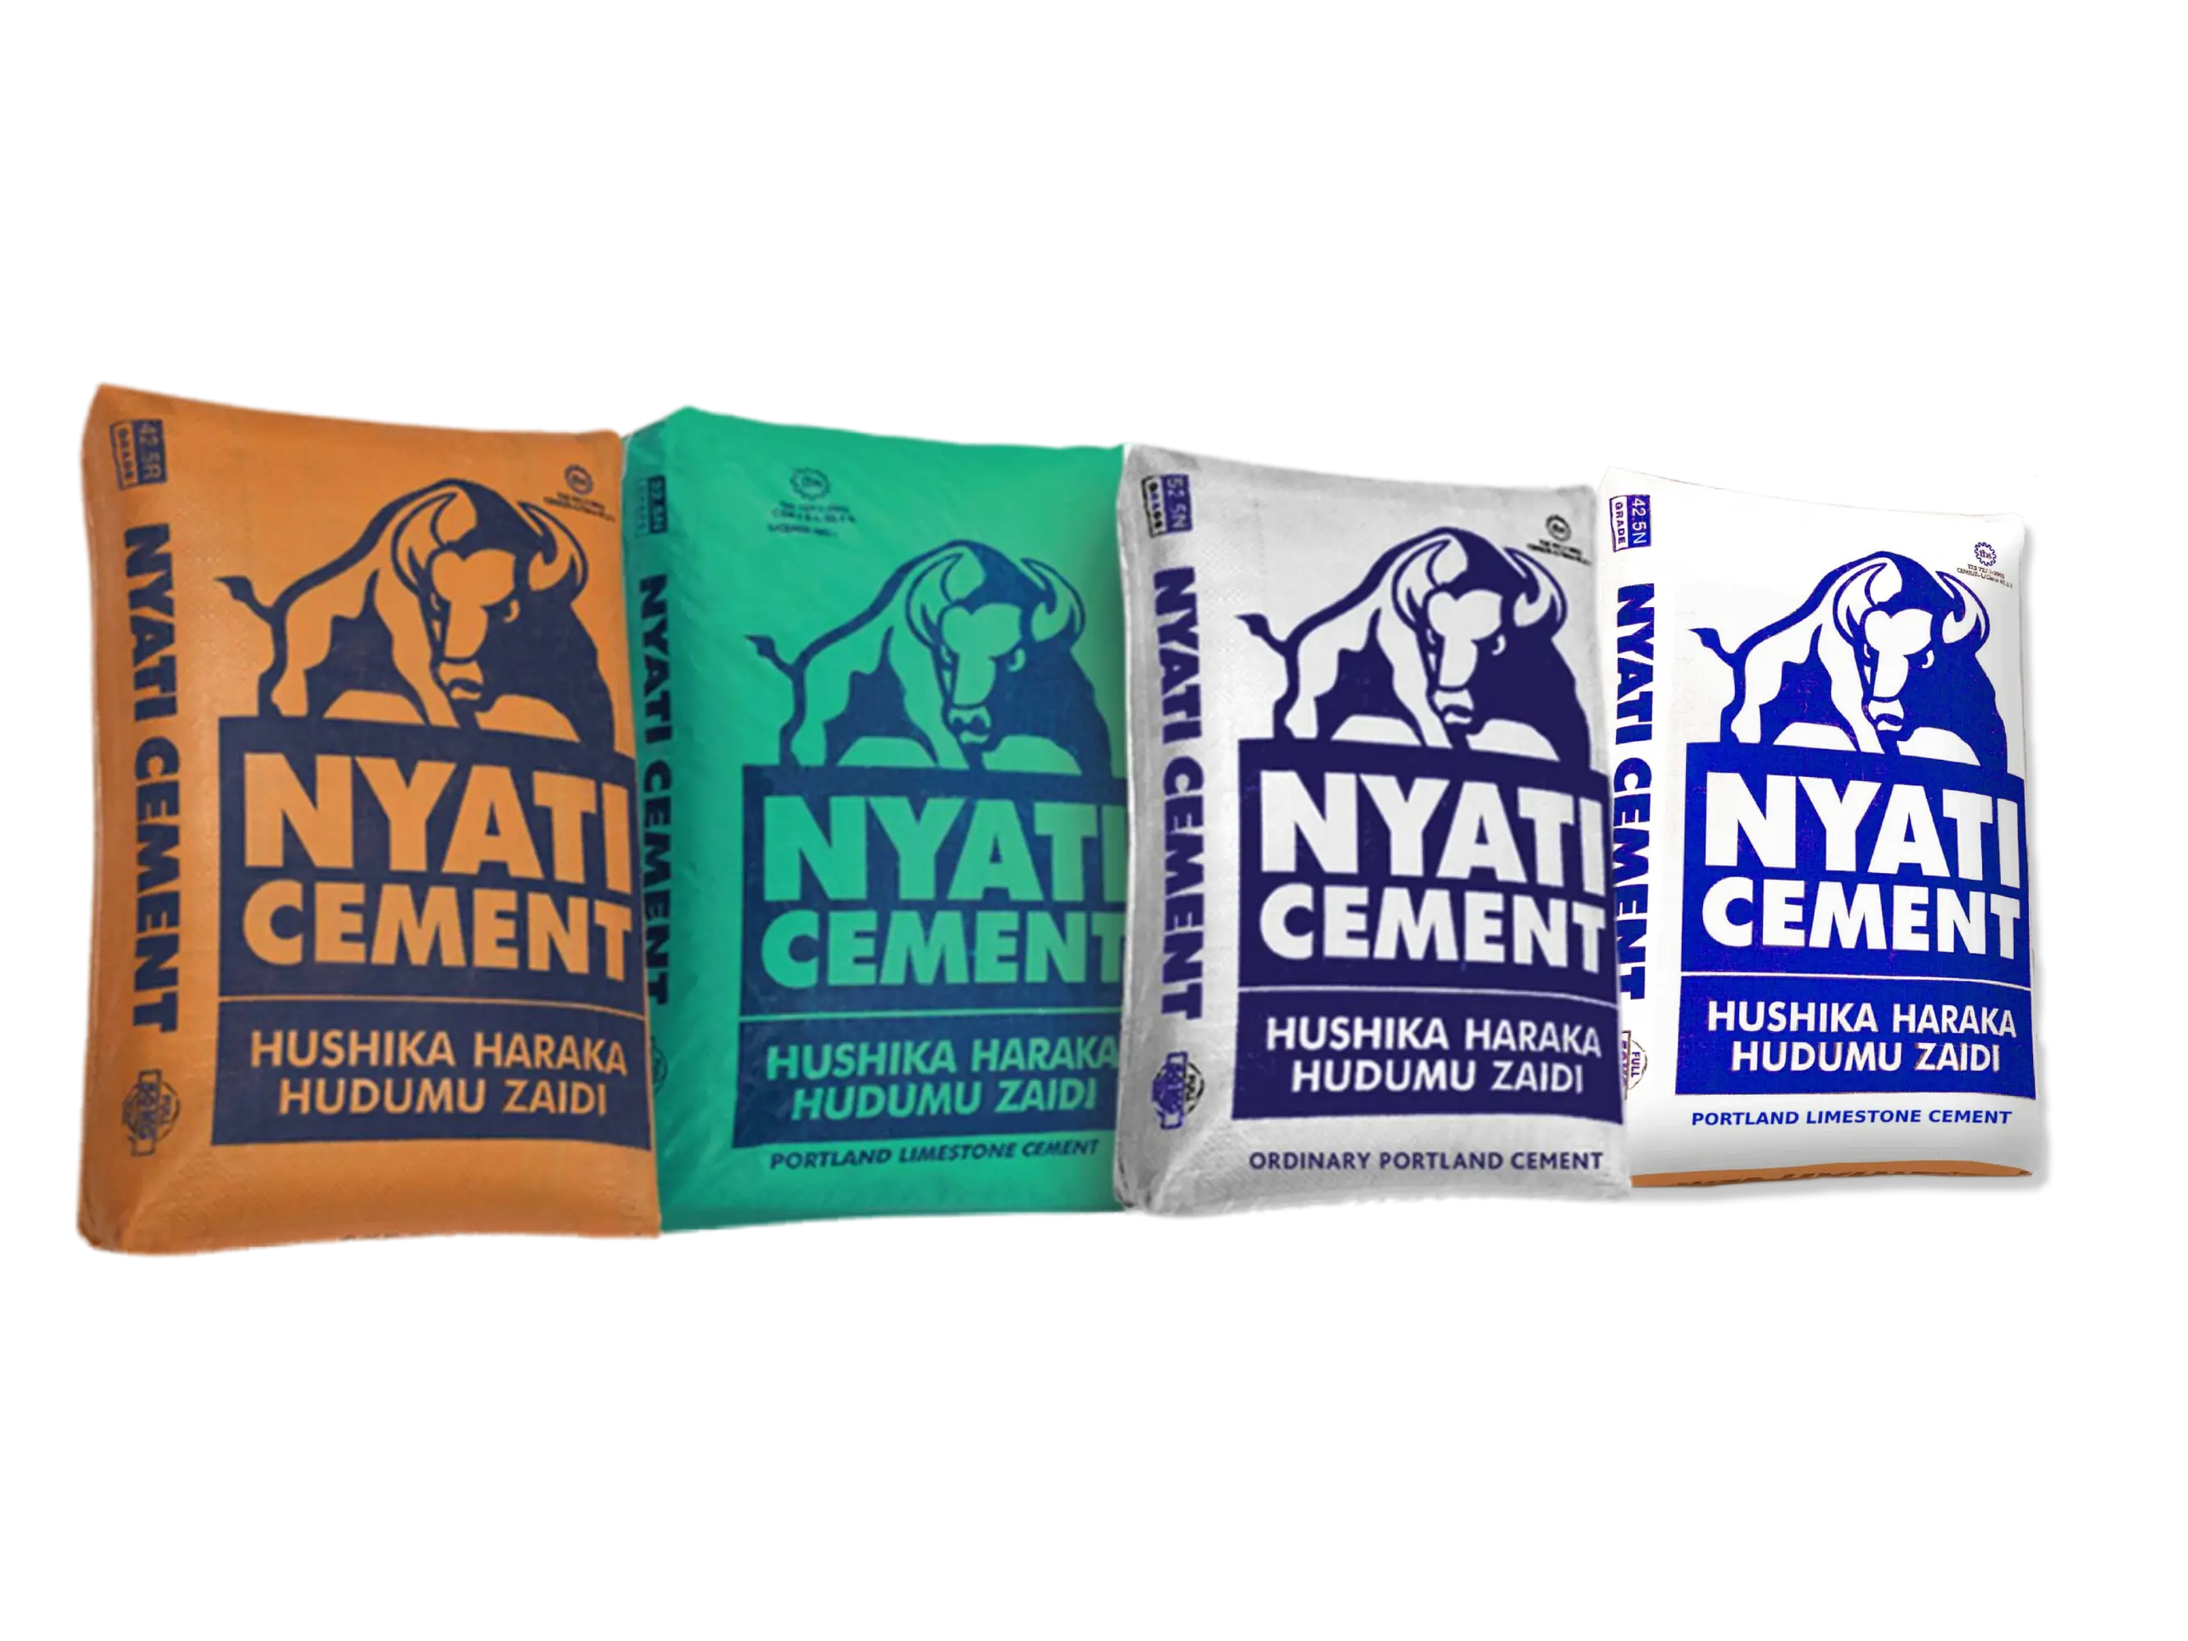
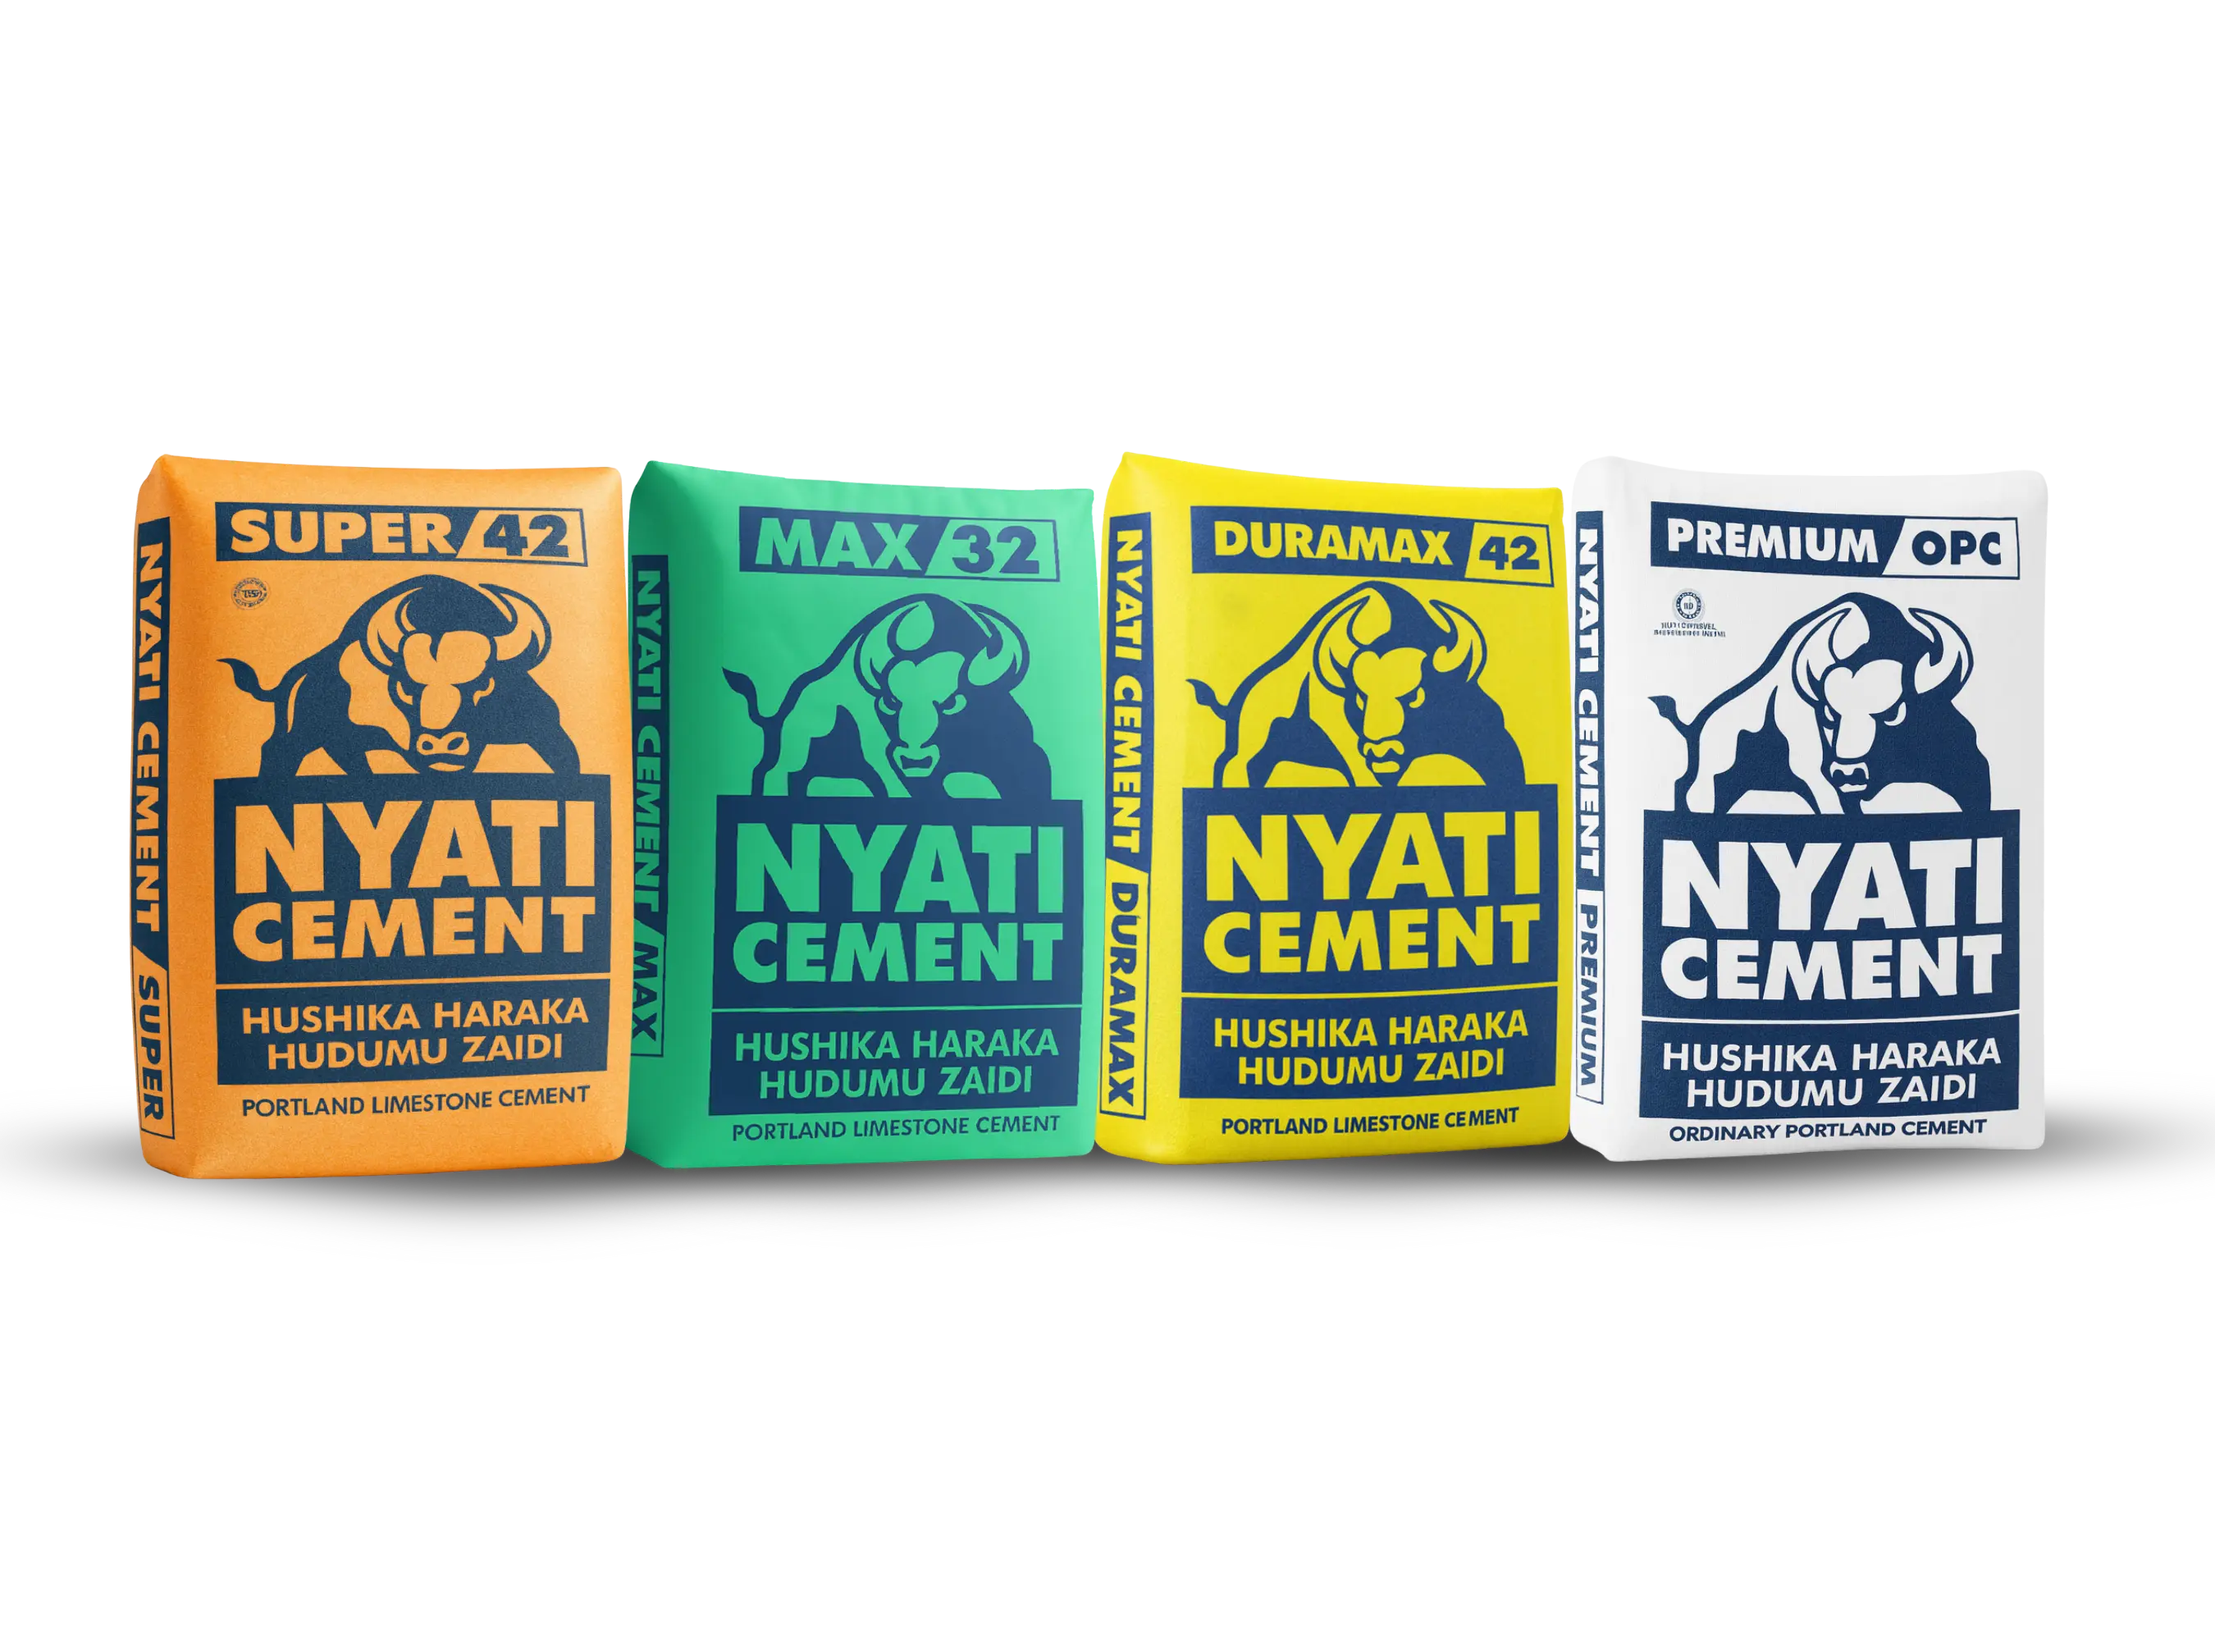
chore: patch missing productsPage translation keys

diff --git a/app/products/page.js b/app/products/page.js
@@ -14,9 +14,10 @@ import { useLanguage } from '@/app/contexts/LanguageContext'
 const products = [
   {
     id: 1,
-    image: '/images/products/Nyati-42.5.jpg',
-    fallbackImage: '/images/products/Nyati-42.5.jpg', // Same image as fallback for consistency
-    title: '42.5R Grade Portland Limestone Cement',
+    image: '/images/products/super42.jpg',
+    fallbackImage: '/images/products/super42.jpg',
+    title: 'Nyati Super 42',
+    subtitle: '42.5R Grade Portland Limestone Cement',
     description: 'Designed for projects requiring rapid strength gain and long-term durability. Suitable for blocks making, precast, prestressed concrete, and high-grade concrete for high-strength structures like bridges and reservoirs.',
     features: [
       'High Early Strength',
@@ -31,11 +32,14 @@ const products = [
       'Reinforced Concrete Structures',
       'Hydraulic structures',
       'Ready mix Concrete (RMC)'
-    ]  },  {
+    ]
+  },
+  {
     id: 2,
-    image: '/images/products/Nyati-42.5N.webp', // Using a simple, reliable image name
-    fallbackImage: '/images/products/Nyati-42.5N.jpg', // Fallback to a known working image
-    title: '42.5N Grade Portland Limestone Cement',
+    image: '/images/products/duramax42.jpg',
+    fallbackImage: '/images/products/duramax42.jpg',
+    title: 'Nyati Duramax 42',
+    subtitle: '42.5N Grade Portland Limestone Cement',
     description: 'A high-performance cement for strong, durable structures. Offers excellent workability and compressive strength, making it ideal for general construction projects.',
     features: [
       'Low Heat Generation',
@@ -53,8 +57,10 @@ const products = [
   },
   {
     id: 3,
-    image: '/images/products/Nyati-OPC.png',
-    title: 'Ordinary Portland Cement',
+    image: '/images/products/premiumOPC.jpg',
+    fallbackImage: '/images/products/premiumOPC.jpg',
+    title: 'Nyati Premium OPC',
+    subtitle: 'Ordinary Portland Cement (OPC)',
     description: 'A premium cement known for unmatched strength, durability and exceptional performance. The go-to choice for critical structures and large-scale projects like skyscrapers, bridges, and reserviors.',
     features: [
       'High Early Strength',
@@ -72,8 +78,10 @@ const products = [
   },
   {
     id: 4,
-    image: '/images/products/Nyati-32.5N.jpg',
-    title: '32.5N Grade Portland Cement',
+    image: '/images/products/max32.jpg',
+    fallbackImage: '/images/products/max32.jpg',
+    title: 'Nyati Max 32',
+    subtitle: '32.5N Grade Portland Cement',
     description: 'A reliable, general-purpose cement for everyday construction. Ideal for foundations, bricklaying, masonry, and road stabilization, it offers consistent strength, smooth workability, and durable results.',
     features: [
       'Normal Setting',
@@ -90,8 +98,7 @@ const products = [
       'General civil engineering works'
     ]
   }
-];
-
+]
 // Key features data
 const keyFeatures = [
   {

diff --git a/app/components/sections/products-slider.js b/app/components/sections/products-slider.js
@@ -11,8 +11,8 @@ const products = [
   {
     id: 1,
     nameKey: 'products.items.425r.name',
-    defaultName: 'Nyati 42.5R',
-    image: '/images/products/Nyati-42.5.jpg',
+    defaultName: 'Nyati Super 42',
+    image: '/images/products/super42.jpg',
     descriptionKey: 'products.items.425r.description',
     specs: [
       'products.items.425r.specs.1',
@@ -23,8 +23,8 @@ const products = [
   {
     id: 2,
     nameKey: 'products.items.425n.name',
-    defaultName: 'Nyati 42.5N',
-    image: '/images/products/Nyati-42.5N.jpg',
+    defaultName: 'Nyati Duramax 42',
+    image: '/images/products/duramax42.jpg',
     descriptionKey: 'products.items.425n.description',
     specs: [
       'products.items.425n.specs.1',
@@ -35,8 +35,8 @@ const products = [
   {
     id: 3,
     nameKey: 'products.items.opc.name',
-    defaultName: 'Nyati OPC',
-    image: '/images/products/Nyati-OPC.png',
+    defaultName: 'Nyati Premium OPC',
+    image: '/images/products/premiumOPC.jpg',
     descriptionKey: 'products.items.opc.description',
     specs: [
       'products.items.opc.specs.1',
@@ -47,8 +47,8 @@ const products = [
   {
     id: 4,
     nameKey: 'products.items.325n.name',
-    defaultName: 'Nyati 32.5N',
-    image: '/images/products/Nyati-32.5N.jpg',
+    defaultName: 'Nyati Max 32',
+    image: '/images/products/max32.jpg',
     descriptionKey: 'products.items.325n.description',
     specs: [
       'products.items.325n.specs.1',

diff --git a/app/components/ui/ProductCard.jsx b/app/components/ui/ProductCard.jsx
@@ -7,7 +7,7 @@ import Image from 'next/image'
 import { useTranslations } from '../../hooks/useTranslations'
 
 export default function ProductCard({ product, index }) {
-  const { image, fallbackImage, title, description, features, applications } = product || {};
+  const { image, fallbackImage, title, subtitle, description, features, applications } = product || {};
   const [isExpanded, setIsExpanded] = useState(false)
   const [imageError, setImageError] = useState(false)
   const { t } = useTranslations()
@@ -65,11 +65,22 @@ export default function ProductCard({ product, index }) {
         
         <div className="lg:w-3/5 p-6">
           <motion.h2 
-            className="text-2xl font-bold mb-3 text-nyati-navy"
+            className="text-2xl font-bold mb-1 text-nyati-navy"
             layoutId={`title-${title}`}
           >
             {title || 'Product Title'}
-          </motion.h2>          <motion.p 
+          </motion.h2>
+          {subtitle && (
+            <motion.h3
+              className="text-base font-semibold mb-3 text-nyati-orange"
+              initial={{ opacity: 0 }}
+              animate={{ opacity: 1 }}
+              transition={{ delay: 0.15 }}
+            >
+              {subtitle}
+            </motion.h3>
+          )}
+          <motion.p 
             className="text-gray-700 mb-6"
             initial={{ opacity: 0 }}
             animate={{ opacity: 1 }}

diff --git a/app/components/ui/NewProductCard.jsx b/app/components/ui/NewProductCard.jsx
@@ -16,6 +16,7 @@ export default function NewProductCard({ product, index }) {
     image = '',
     fallbackImage = '',
     title = 'Product Title',
+    subtitle = '',
     description = 'Product Description',
     features = [],
     applications = []
@@ -91,11 +92,21 @@ export default function NewProductCard({ product, index }) {
         <div className="lg:w-3/5 p-6">
           {/* Product Title */}
           <motion.h2 
-            className="text-2xl font-bold mb-3 text-nyati-navy"
+            className="text-2xl font-bold mb-1 text-nyati-navy"
             layoutId={`title-${index}`}
           >
             {title}
           </motion.h2>
+          {subtitle && (
+            <motion.h3
+              className="text-base font-semibold mb-3 text-nyati-orange"
+              initial={{ opacity: 0 }}
+              animate={{ opacity: 1 }}
+              transition={{ delay: 0.15 }}
+            >
+              {subtitle}
+            </motion.h3>
+          )}
           
           {/* Product Description */}
           <motion.p 
